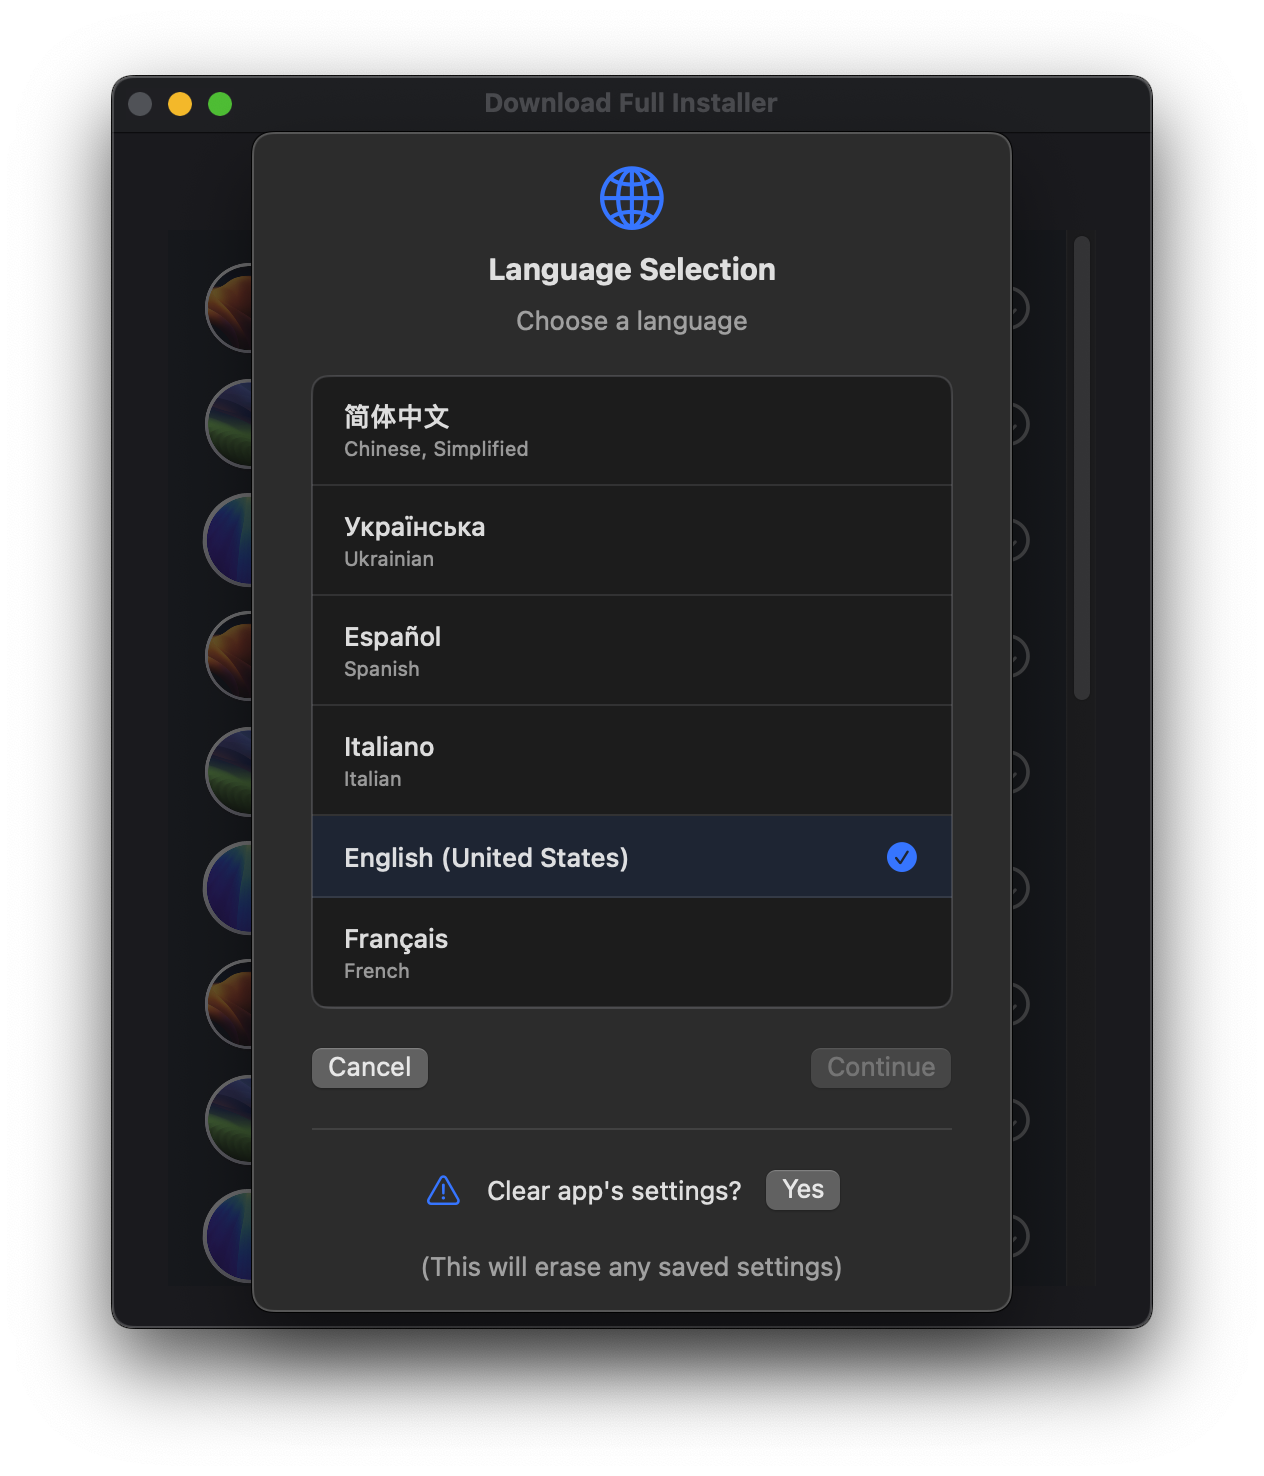
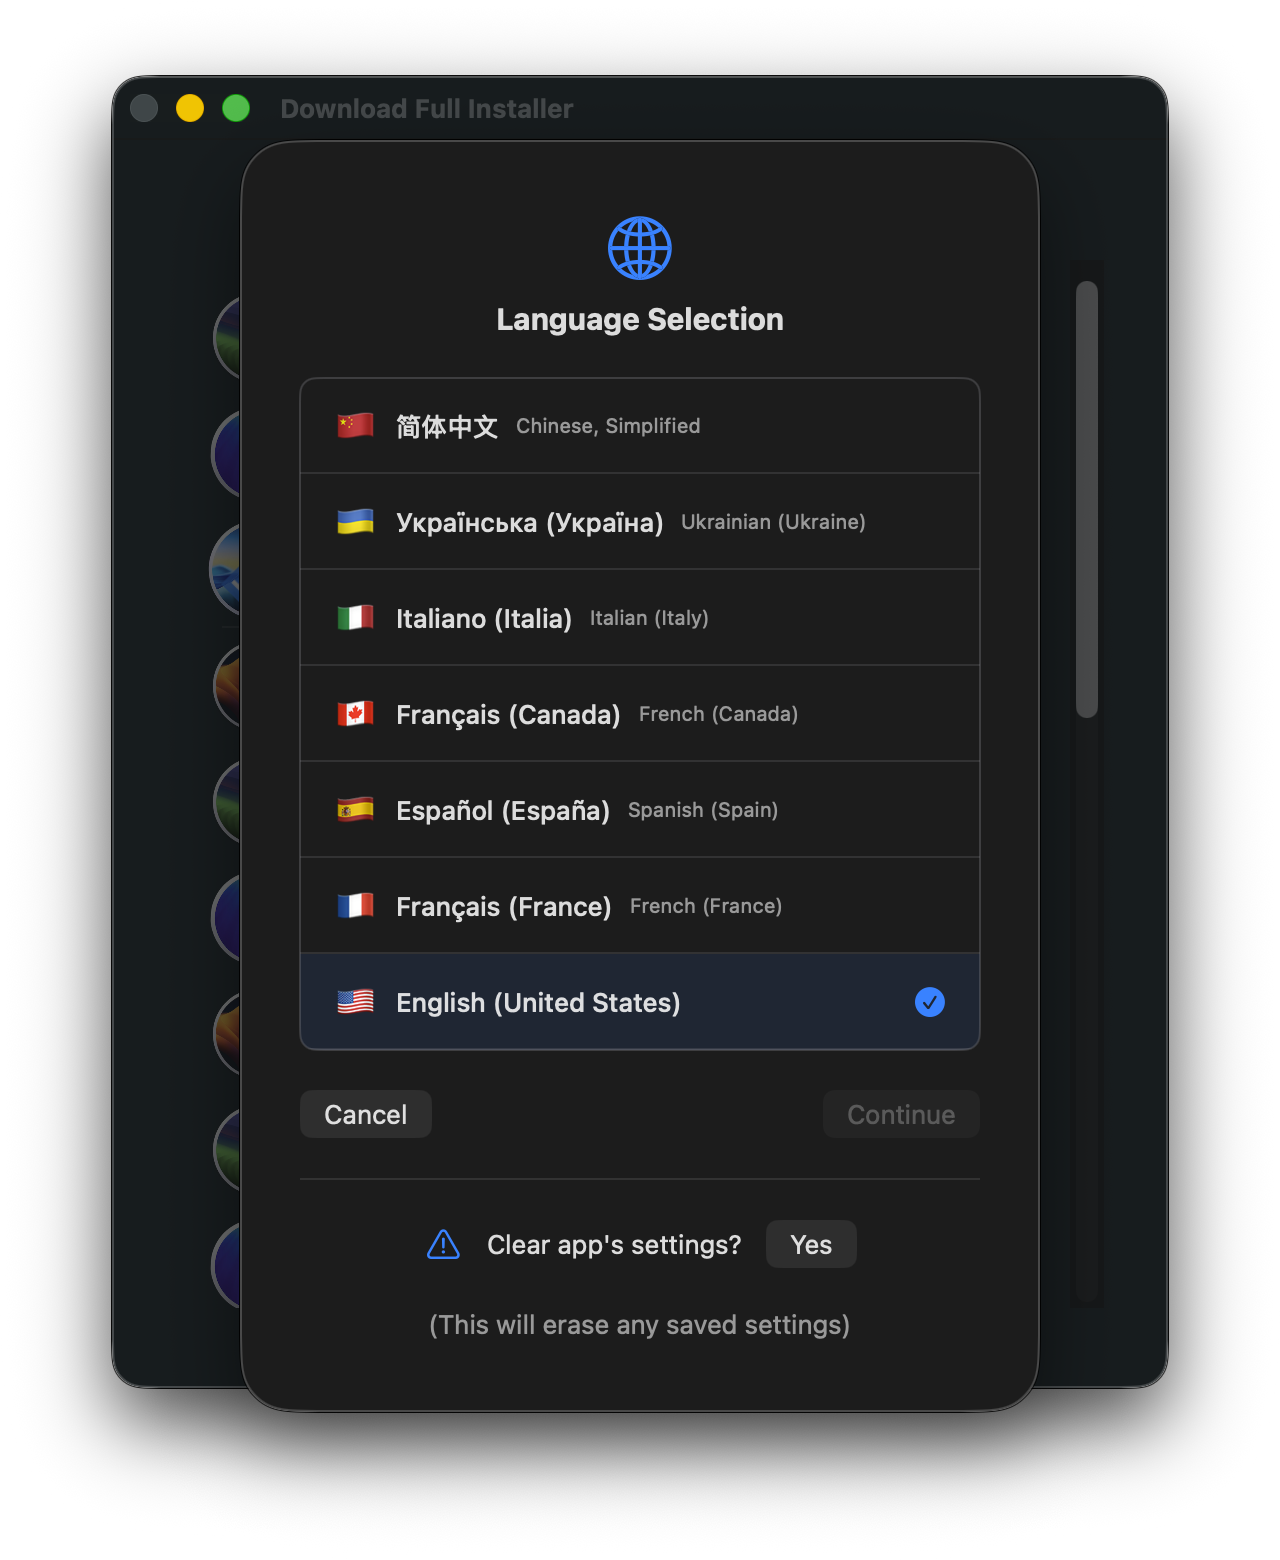
Update images and README for language selection

diff --git a/README.md b/README.md
@@ -33,13 +33,10 @@ DownloadFullInstaller runs on macOS 11 Big Sur through macOS 26 Tahoe.
 ### Notes about version 2.0.5
 
 - Updated up to macOS 26 Tahoe. 
-- Xcode project requires macOS 13 Ventura or newer.
 - Added language selection system.
 - Added restart alert to language selection view.
 - Updated translations with new strings.
 - Added option to clear app's settings, stored in `~/Library/Containers/DownloadFullInstaller/Data/Library/Preferences`.
-
-<img src="Images/DownloadFullInstaller-lang-noflags.png" width="600px">
 
 ### Notes about version 2.0.0
 
